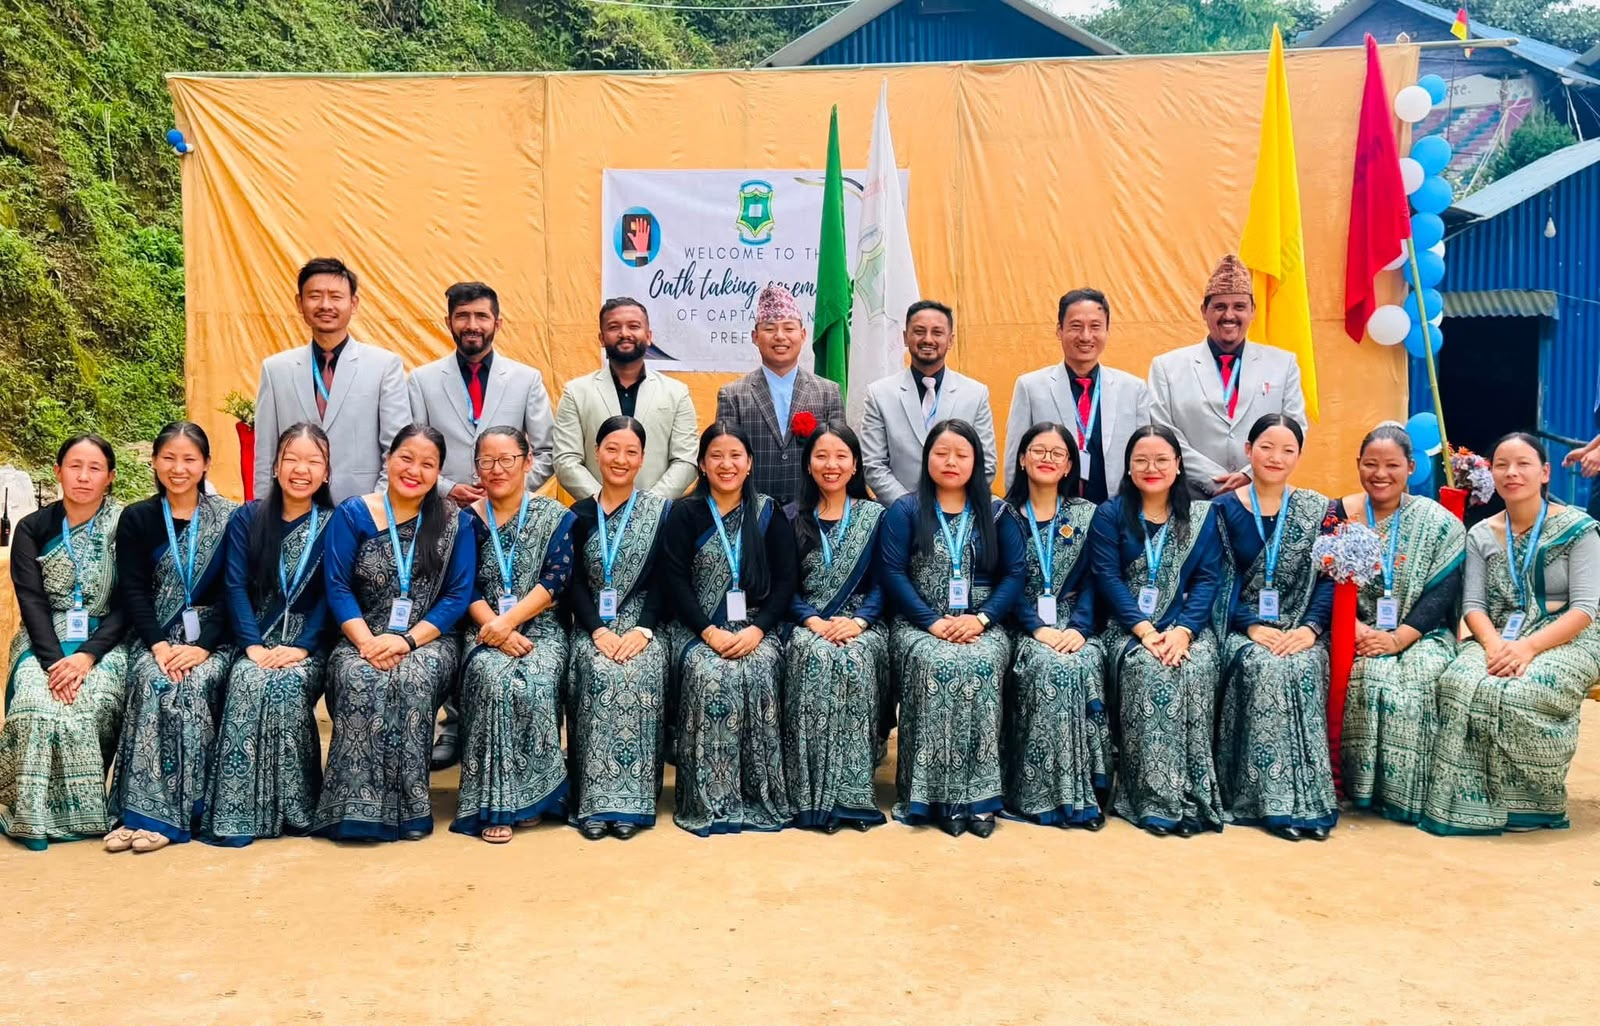
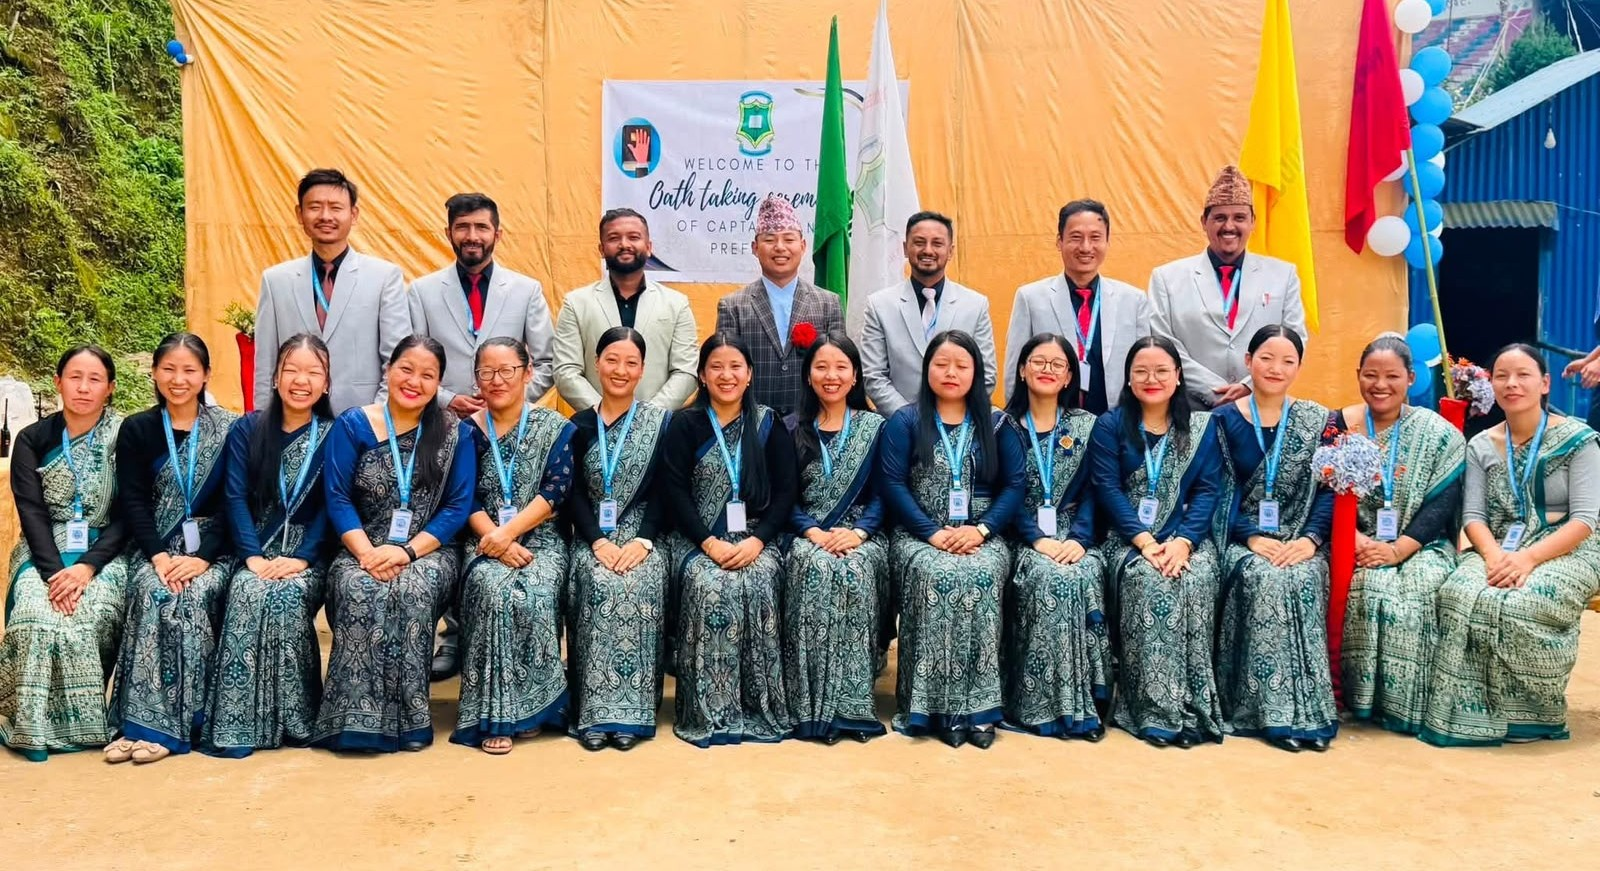
final website update

diff --git a/index.html b/index.html
@@ -367,6 +367,24 @@ body.dark-mode .student-profile-row strong{
     }
 }
 
+
+/* =========================================================
+   STUDENT PROGRESS REPORTS — 12 MONTHLY REPORTS PER STUDENT
+========================================================= */
+.student-photo-gallery{margin-top:25px;padding-top:22px;border-top:1px solid #dce6ef}
+.student-photo-gallery h4{color:#123c69;font-size:20px;margin-bottom:14px}
+.student-photo-grid{display:grid;grid-template-columns:repeat(5,1fr);gap:10px}
+.student-photo-item{position:relative;aspect-ratio:1/1;border-radius:12px;overflow:hidden;background:#e8eef5;border:1px solid #d5e0ea;cursor:pointer}
+.student-photo-item img{width:100%;height:100%;object-fit:cover;display:block;transition:transform .25s ease}
+.student-photo-item:hover img{transform:scale(1.05)}
+.student-photo-number{position:absolute;right:6px;bottom:6px;min-width:25px;height:25px;padding:0 6px;border-radius:20px;display:flex;align-items:center;justify-content:center;background:rgba(0,0,0,.62);color:#fff;font-size:12px;font-weight:700}
+.student-photo-missing{width:100%;height:100%;display:flex;align-items:center;justify-content:center;text-align:center;padding:8px;color:#738294;font-size:12px;line-height:1.35}
+body.dark-mode .student-photo-gallery{border-color:#3a4e61}
+body.dark-mode .student-photo-gallery h4{color:#8ecbff}
+body.dark-mode .student-photo-item{background:#1d2935;border-color:#3a4e61}
+body.dark-mode .student-photo-missing{color:#c5d0db}
+@media(max-width:700px){.student-photo-grid{grid-template-columns:repeat(2,1fr)}}
+
 /* =========================================================
    STUDENT PASSWORD POPUP
 ========================================================= */
@@ -3348,7 +3366,6 @@ body.dark-mode .suggestion-feedback-field textarea{
         <a href="#programs">Programs</a>
         <a href="#media">Gallery</a>
         <a href="#notice">Notice</a>
-        <a href="#admission">Admission</a>
         <a href="#reviews">Reviews</a>
         
         <a href="javascript:void(0)" onclick="openPopup('suggestionFeedbackPopup')">Suggestion &amp; Feedback</a>
@@ -5651,24 +5668,46 @@ function renderStudentProfile(className, studentId){
     const student = getStudentRecord(className, studentId);
     if(!student) return;
 
+    const galleryHTML = Array.from({length:12},(_,i)=>{
+        const src=`student-photos/${student.studentId}/${i+1}.jpeg`;
+        return `
+        <div class="student-photo-item" onclick="openStudentPhotoGallery('${student.studentId}',${i})" title="Open monthly report ${i+1}">
+            <img src="${src}" alt="${student.name} progress report ${i+1}" loading="lazy" decoding="async"
+                 onerror="this.style.display='none';this.nextElementSibling.style.display='flex';">
+            <div class="student-photo-missing" style="display:none;">Month ${i+1}<br>Report not available</div>
+            <span class="student-photo-number">${i+1}</span>
+        </div>`;
+    }).join("");
+
     rollView.style.display = "block";
     rollView.innerHTML = `
-        <button class="student-back-btn" onclick="showStudentRolls('${className}')">
-            ← Back to ${className}
-        </button>
+        <button class="student-back-btn" onclick="showStudentRolls('${className}')">← Back to ${className}</button>
         <h2 class="student-portfolio-title">🎓 ${student.name}</h2>
         <div class="student-profile">
             <div class="student-profile-icon">👤</div>
             <h3>${student.name}</h3>
-            <div class="student-profile-row"><strong>Student ID:</strong>${student.studentId}</div>
-            <div class="student-profile-row"><strong>Student Name:</strong>${student.name}</div>
-            <div class="student-profile-row"><strong>Class:</strong>${student.className}</div>
-            <div class="student-profile-row"><strong>Date of Birth:</strong>To be updated</div>
-            <div class="student-profile-row"><strong>Parent / Guardian:</strong>To be updated</div>
-            <div class="student-profile-row"><strong>Academic Performance:</strong>To be updated</div>
-            <div class="student-profile-row"><strong>Remarks:</strong>To be updated</div>
-        </div>
-    `;
+            <div class="student-profile-row"><strong>Student ID:</strong> ${student.studentId}</div>
+            <div class="student-profile-row"><strong>Student Name:</strong> ${student.name}</div>
+            <div class="student-profile-row"><strong>Class:</strong> ${student.className}</div>
+            <div class="student-profile-row"><strong>Date of Birth:</strong> To be updated</div>
+            <div class="student-profile-row"><strong>Parent / Guardian:</strong> To be updated</div>
+            <div class="student-profile-row"><strong>Academic Performance:</strong> To be updated</div>
+            <div class="student-profile-row"><strong>Remarks:</strong> To be updated</div>
+            <div class="student-photo-gallery">
+                <h4>📊 Progress Reports</h4>
+                <div class="student-photo-grid">${galleryHTML}</div>
+            </div>
+        </div>`;
+}
+
+function openStudentPhotoGallery(studentId,startIndex){
+    currentPhotos=Array.from({length:12},(_,i)=>`student-photos/${studentId}/${i+1}.jpeg`);
+    currentPhotoIndex=startIndex;
+    const lightbox=document.getElementById("photoLightbox");
+    if(!lightbox) return;
+    lightbox.style.display="flex";
+    document.body.style.overflow="hidden";
+    showCurrentPhoto();
 }
 
 let studentAccessFailures = 0;
